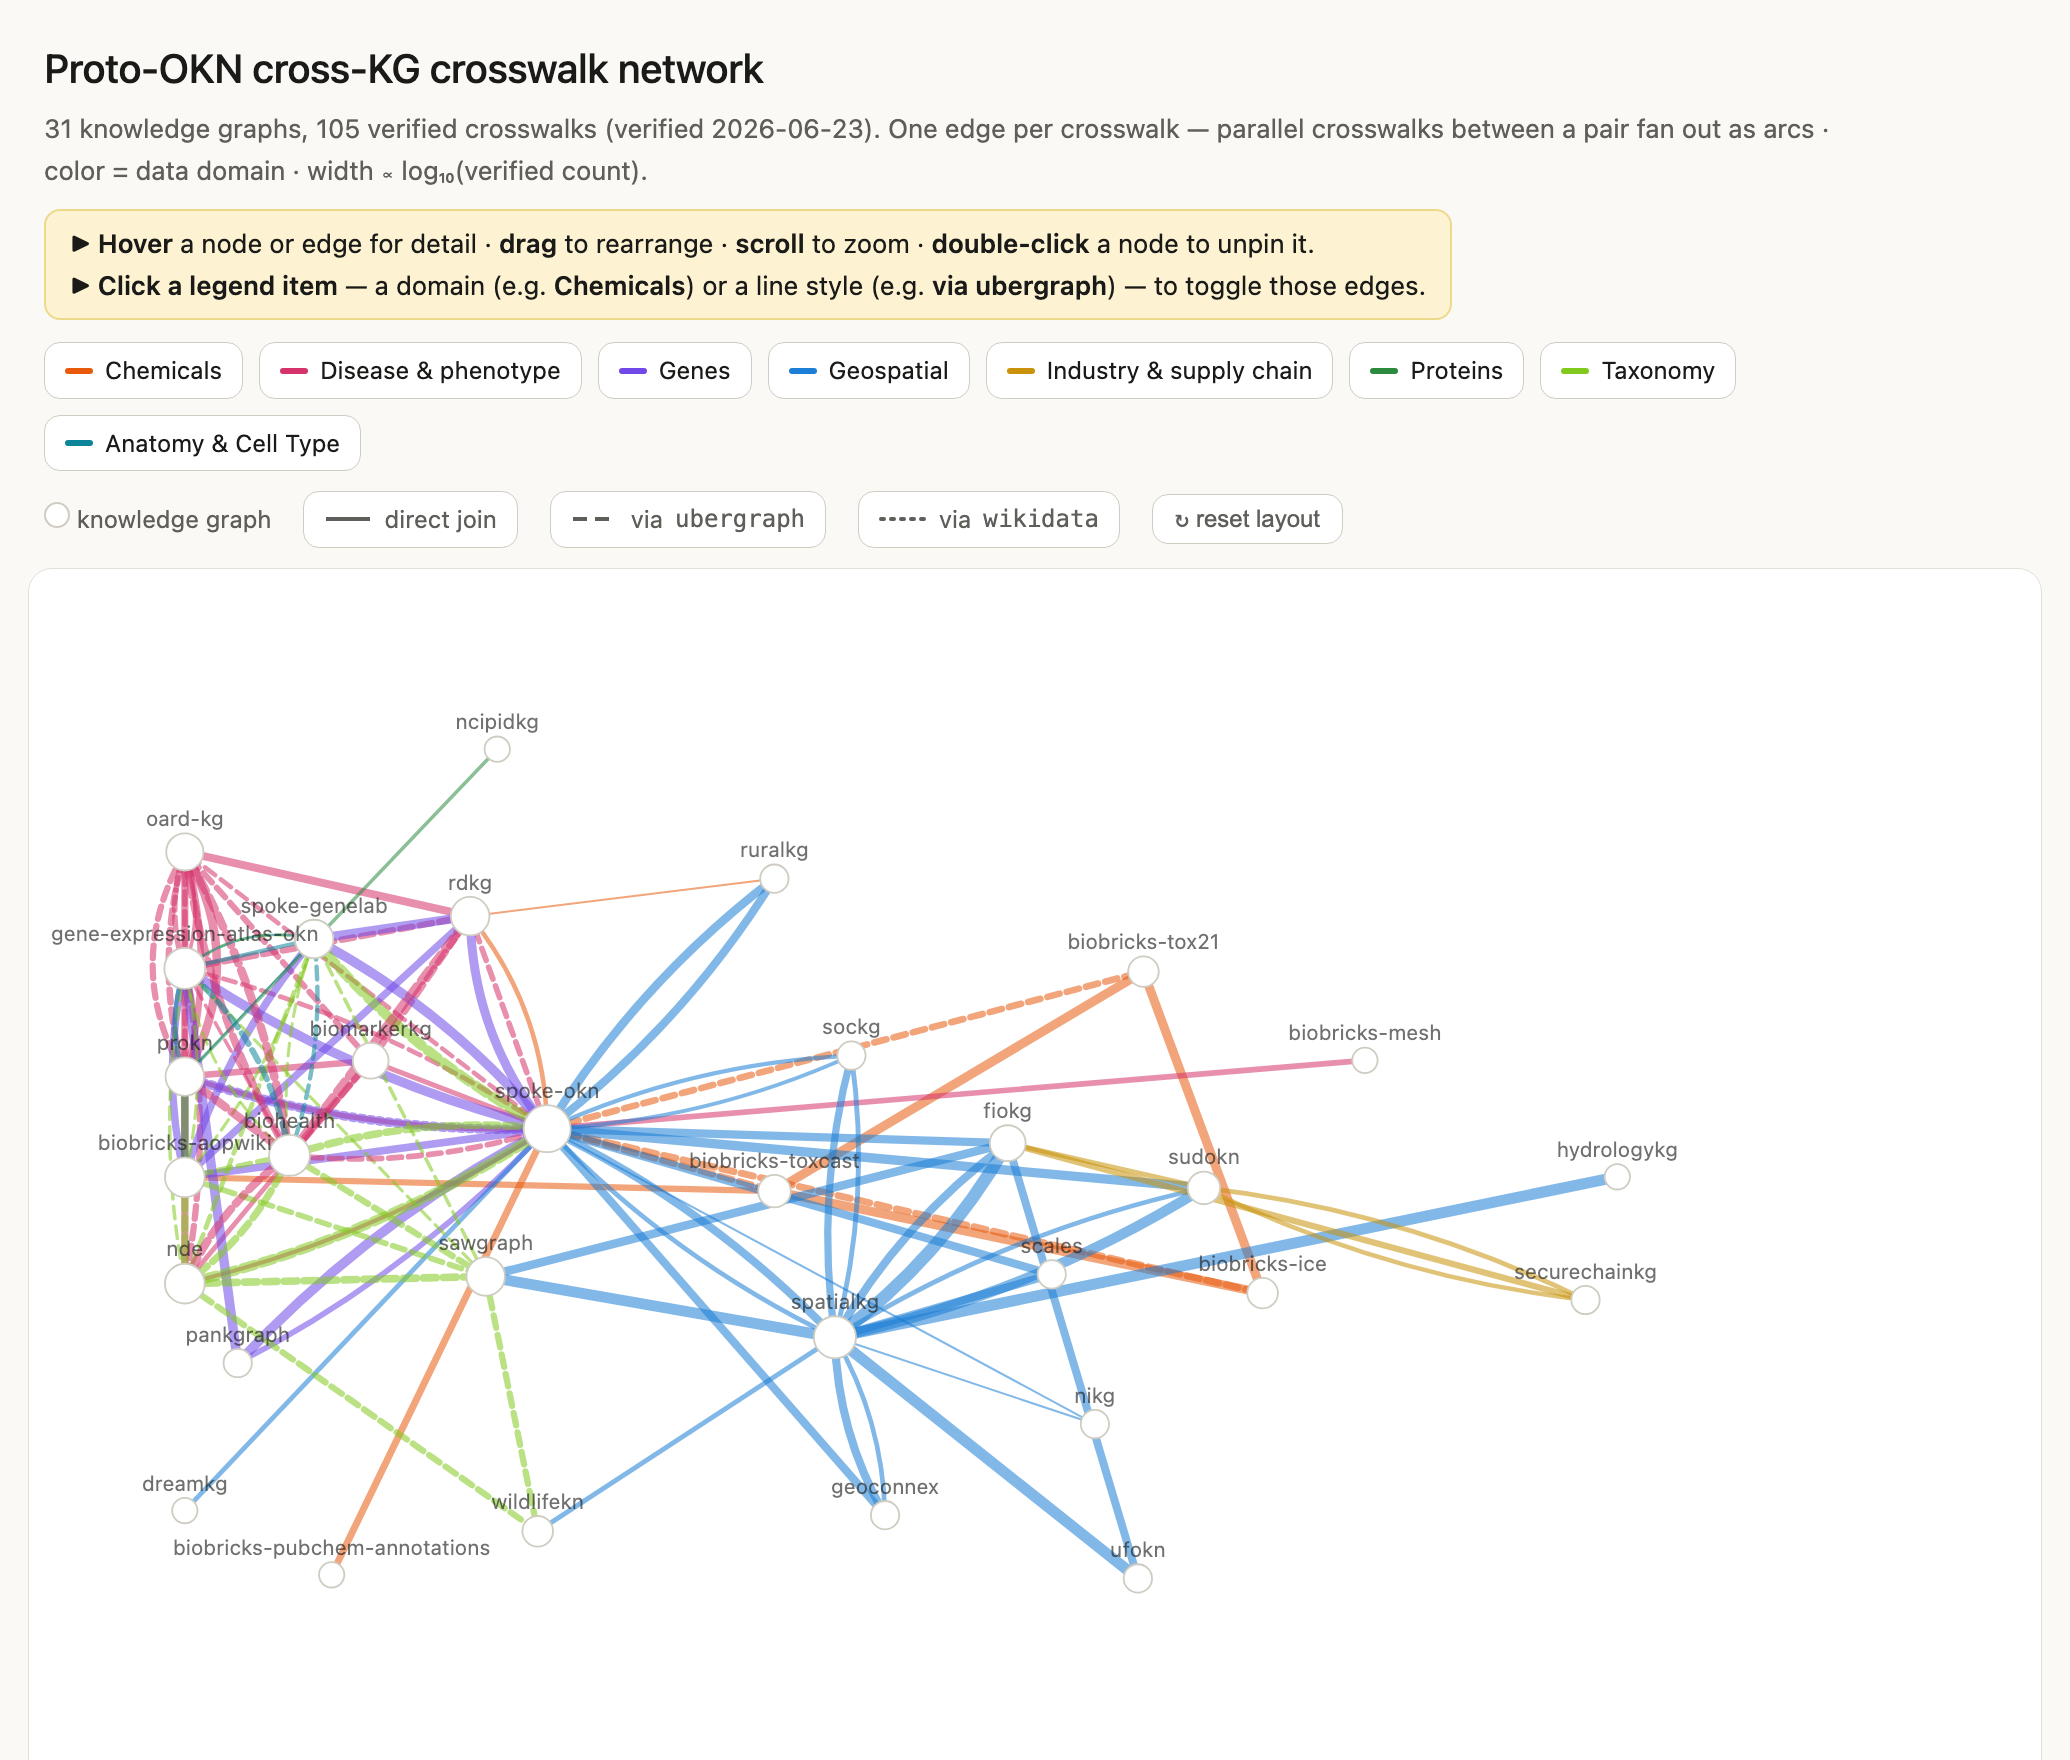
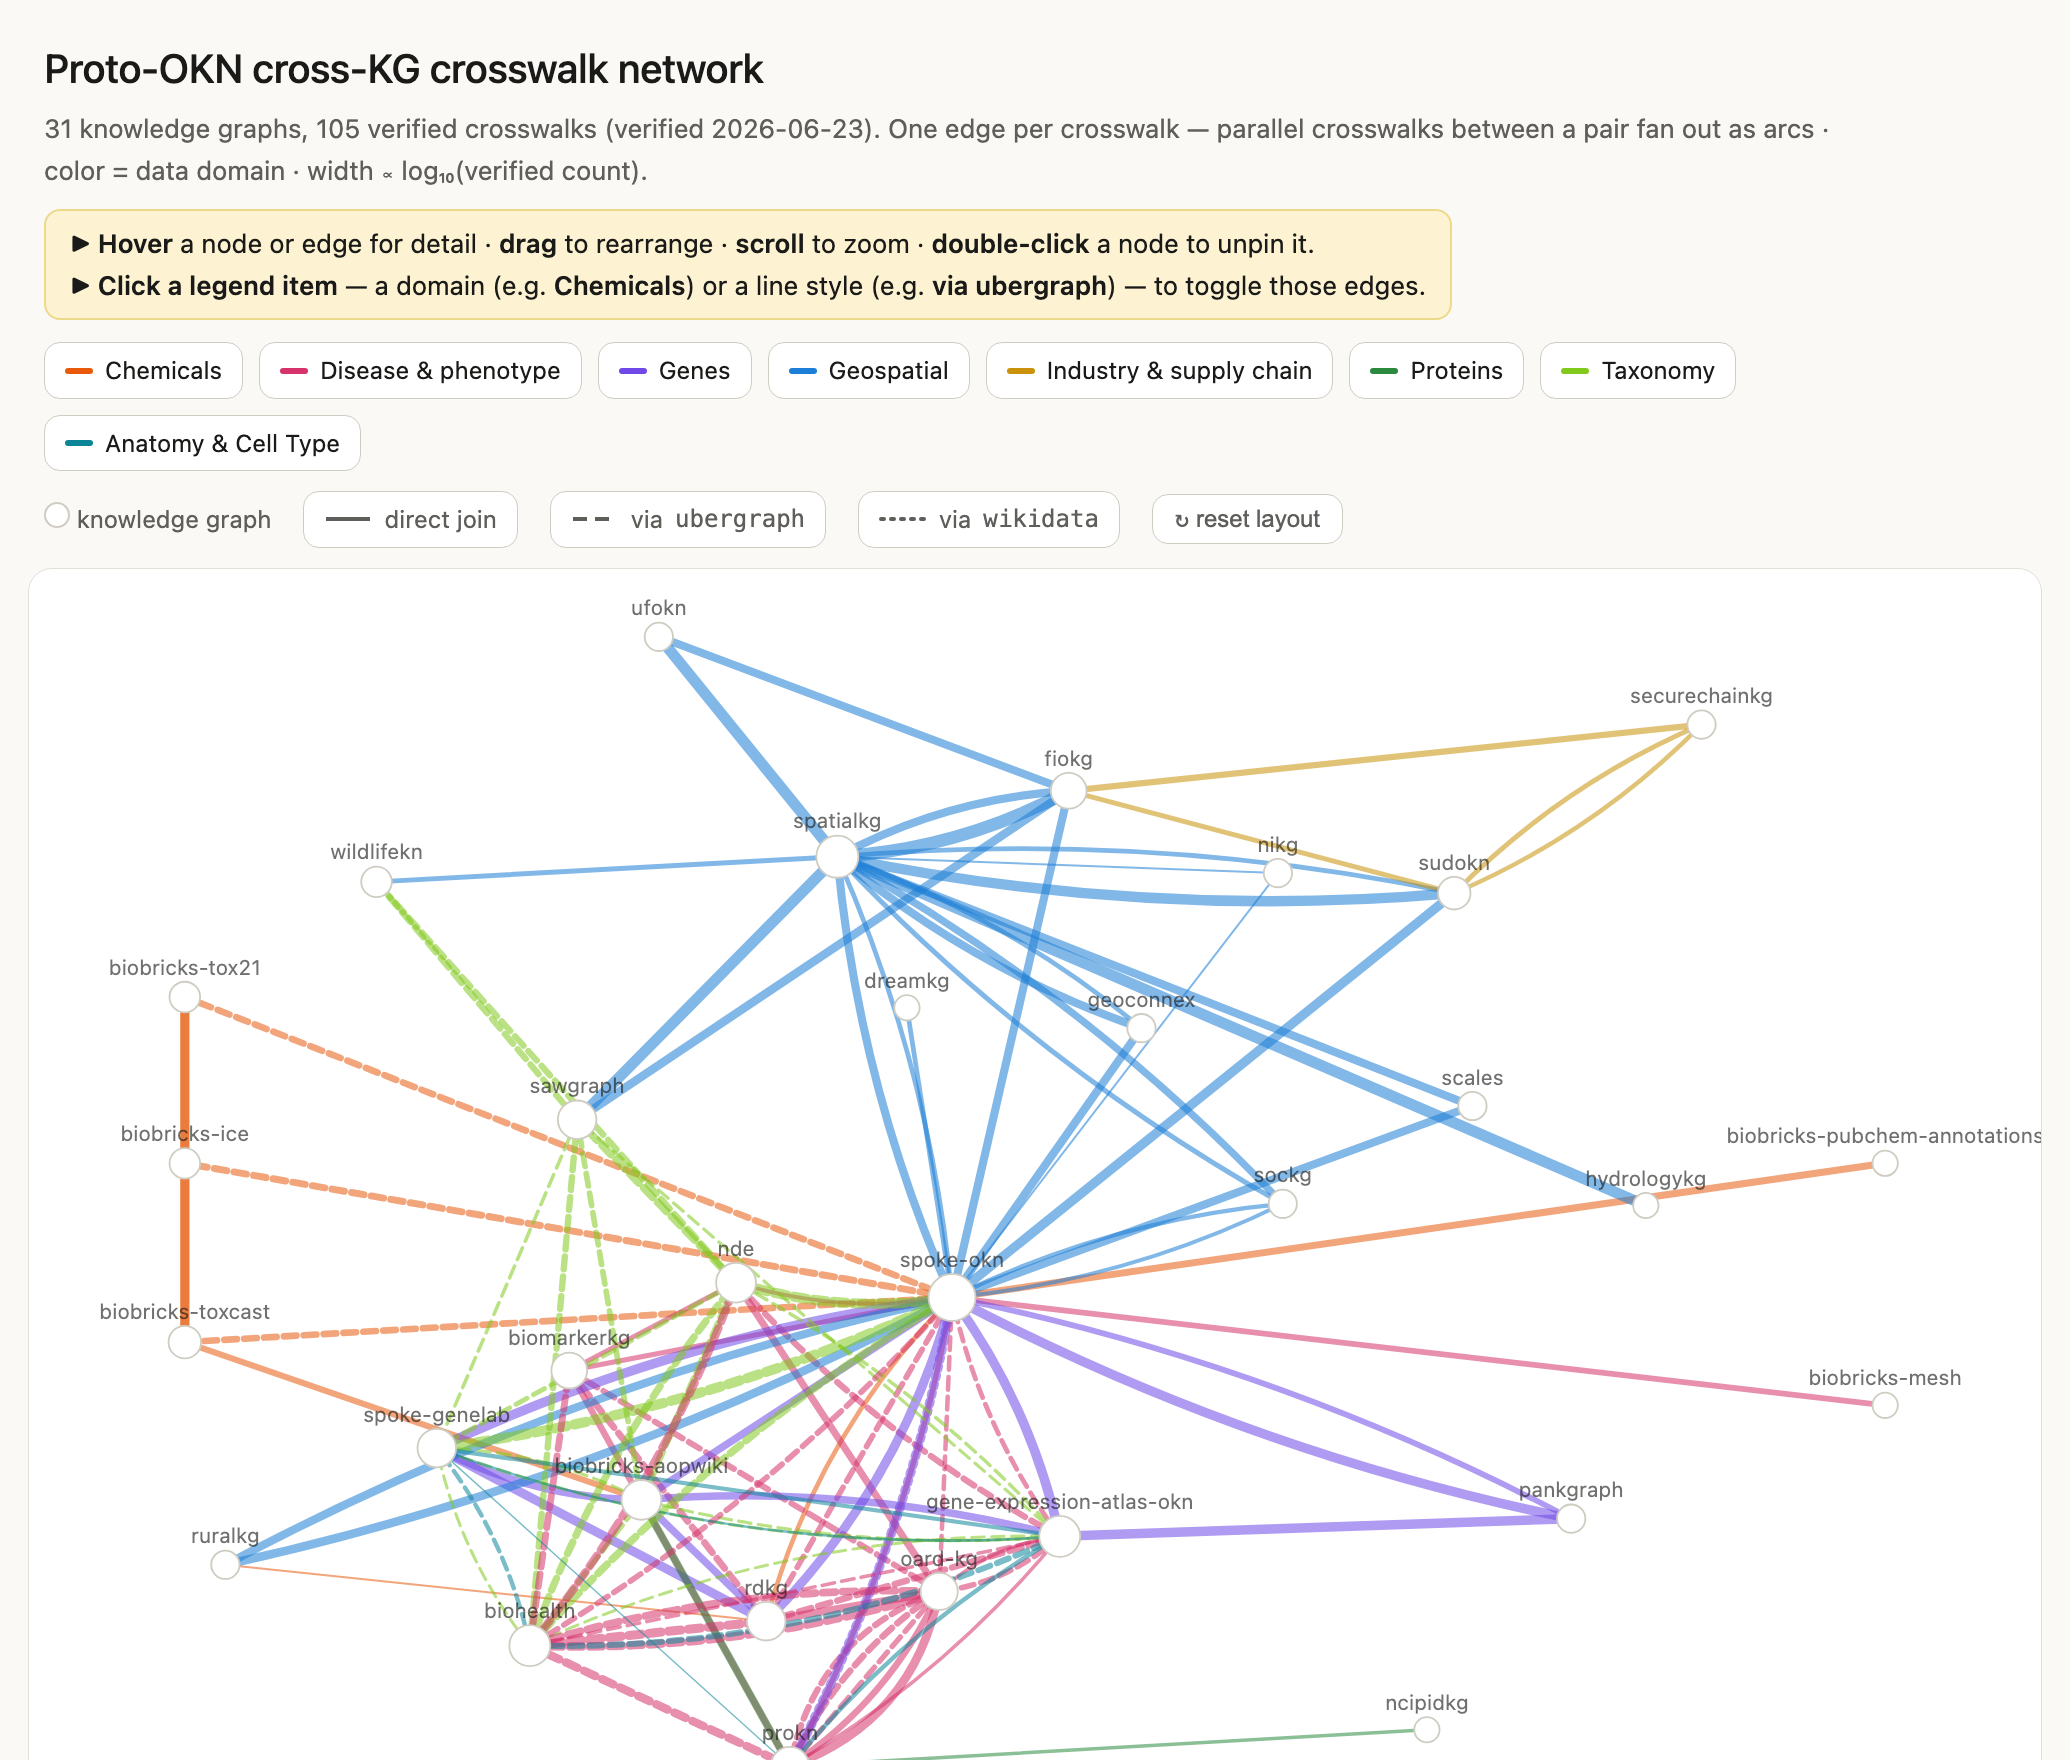
docs: dedupe force-layout springs so dense clusters don't bunch up
Parallel crosswalks between the same pair of graphs were each adding a
spring, collapsing the densely cross-linked disease/biohealth group into a
tight vertical column. Run the force simulation on one spring per unique KG
pair (drawing still fans parallel arcs), with a bit more charge/collide, so
the cluster spreads out. Regenerate the PNG.

diff --git a/docs/crosswalks/crosswalk-network.html b/docs/crosswalks/crosswalk-network.html
@@ -141,6 +141,15 @@ const label=labelG.selectAll("text").data(nodes).join("text")
 const adj={};nodes.forEach(n=>adj[n.id]=new Set());
 links.forEach(l=>{adj[l.source].add(l.target);adj[l.target].add(l.source);});
 
+// One spring per unique KG pair: parallel crosswalks between the same two graphs
+// must not multiply the attraction and collapse densely cross-linked clusters.
+const simLinks=[...new Map(
+  links.map(l=>[[l.source,l.target].sort().join("|"),{source:l.source,target:l.target}])
+).values()];
+// forceLink resolves simLinks' ids to node objects; resolve the drawing links too.
+const _nbi=new Map(nodes.map(n=>[n.id,n]));
+links.forEach(l=>{l.source=_nbi.get(l.source);l.target=_nbi.get(l.target);});
+
 function showTip(html,ev){tip.innerHTML=html;const r=wrap.getBoundingClientRect();let x=ev.clientX-r.left+14,y=ev.clientY-r.top+14;if(x>r.width-290)x=ev.clientX-r.left-290;tip.style.left=x+"px";tip.style.top=y+"px";tip.style.opacity=1;}
 function hideTip(){tip.style.opacity=0;}
 
@@ -164,11 +173,11 @@ function restore(){
 }
 
 const sim=d3.forceSimulation(nodes)
-  .force("link",d3.forceLink(links).id(d=>d.id).distance(d=>100+lw(d.maxW)*2).strength(0.12))
-  .force("charge",d3.forceManyBody().strength(-720))
-  .force("x",d3.forceX(W/2).strength(0.022))
-  .force("y",d3.forceY(H/2).strength(0.16))
-  .force("collide",d3.forceCollide().radius(d=>nr(d)+19))
+  .force("link",d3.forceLink(simLinks).id(d=>d.id).distance(110).strength(0.085))
+  .force("charge",d3.forceManyBody().strength(-940))
+  .force("x",d3.forceX(W/2).strength(0.03))
+  .force("y",d3.forceY(H/2).strength(0.14))
+  .force("collide",d3.forceCollide().radius(d=>nr(d)+23))
   .on("tick",ticked);
 
 function ticked(){
